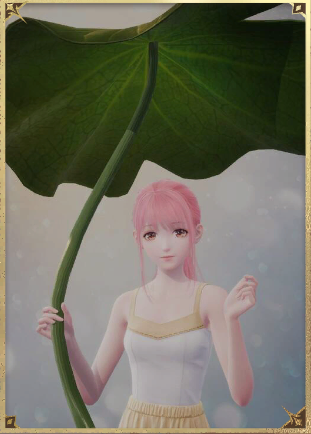
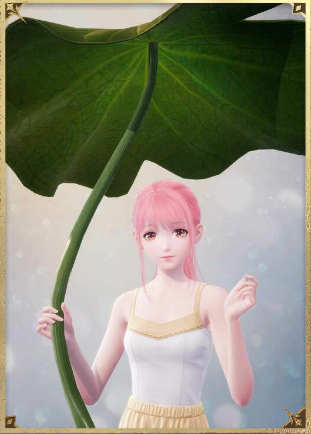
brightened umbrella images + stats for timeless echo

diff --git a/python/glow_up_scraper.py b/python/glow_up_scraper.py
@@ -45,7 +45,7 @@ def check_incr(file_path):
 				if current_level > prev_level:
 					decreasing_columns = [
 						col for col in ['Elegant', 'Fresh', 'Sweet', 'Sexy', 'Cool']
-						if int(row[col]) <= int(prev_row[col])
+						if int(row[col]) <= int(prev_row[col]) and int(prev_row[col]) <= int(row[col]) * 1.12
 					]
 					if decreasing_columns:
 						decreasing_columns_str = ", ".join(decreasing_columns)
@@ -89,17 +89,30 @@ def scrape_all():
 		pg.scroll(-1725)
 		time.sleep(1)
 
-def scrape_one(x, y, last=False):
-	pg.moveTo(x_cards[x], y_cards[2 if y > 2 else y])
-	if y > 2:
-		while (y-2 > 0):
-			pg.scroll(-1725)
-			y -= 1
-	elif y == 2:
-		pg.scroll(-850)
-	time.sleep(1)
-	pg.leftClick()
-	get_item_details(x, y, last)
+def scrape_one_lvl(name, rarity, slot, zero=False):
+	r = []
+	ss = [slot, '']
+	file = slot.lower()
+	r.append(name)
+	r.append(rarity)
+	r.extend(ss)
+	
+	if zero:
+		r.append(0)
+		r.extend(get_stats(initial_stat))
+		r.extend([0] * 3)
+		r.extend([''] * 2)
+	else:
+		r.append(get_lvl())
+		r.extend(get_stats(new_stat))
+		r.extend([0] * 3)
+		r.extend([''] * 2)
+	print(r)
+	f = f'./python/csv/unprocessed/{file}.csv'
+	with open(f, 'a', newline='') as csvfile:
+		csvwriter = csv.writer(csvfile)
+		csvwriter.writerow(r)
+	r.clear()
 
 def scrape_stats(name, rarity, slot):
 	r = []
@@ -154,18 +167,23 @@ def scrape_stats(name, rarity, slot):
 		csvwriter = csv.writer(csvfile)
 		csvwriter.writerows(rows)
 
+# vid = gw.getWindowsWithTitle('')[0]
+# vid.activate()
+# time.sleep(1)
+# scrape_one_lvl("Old Tale", 4, 'Handheld')
+# pg.moveTo(100, 100)
+
+
 # in_w.activate()
 # time.sleep(2)
-# scrape_stats("Timeless Step", 3, 'Shoes')
+# scrape_stats("Lotus Umbrella", 4, 'Handheld')
 
 
 time.sleep(2)
 file_list = os.listdir('D:/Documents/infinity_nikki_library/python/csv/unprocessed/')
 for file in file_list:
 	print(file)
-	#check_zeros(f'./python/csv/unprocessed/{file}')
 	check_incr(f'./python/csv/unprocessed/{file}')
-# 	spell_check_names(f'./python/csv/unprocessed/{file}')
 
 # scrape_all()
 # f = './python/csv/unprocessed/handheld.csv'

diff --git a/python/add_info_to_csv.py b/python/add_info_to_csv.py
@@ -72,9 +72,14 @@ def add_glow_up():
         for row in reader:
             item_name = row['Name']
             item_level = int(row['Level'])
-
+            
             if item_level == 10 and item_name in glow_up_data:
                 updated_row = row.copy()
+                for key in ['Elegant', 'Fresh', 'Sweet', 'Sexy', 'Cool']:
+                    glow_value = glow_up_data[item_name][key]
+                    updated_value = updated_row[key]
+                    if not (float(updated_value) < float(glow_value) < 1.12 * float(updated_value)):
+                        print(f"Validation failed for {item_name} {key}: {updated_value} vs {glow_value}")
                 updated_row['Level'] = '11'
                 updated_row['Elegant'] = glow_up_data[item_name]['Elegant']
                 updated_row['Fresh'] = glow_up_data[item_name]['Fresh']

diff --git a/python/scraper_helper.py b/python/scraper_helper.py
@@ -10,7 +10,7 @@ import re
 pytesseract.pytesseract.tesseract_cmd = r'C:/Program Files/Tesseract-OCR/tesseract'
 pg.FAILSAFE = True
 pg.PAUSE = 0.5
-in_w = gw.getWindowsWithTitle('Infinity Nikki')[0]
+#in_w = gw.getWindowsWithTitle('Infinity Nikki')[0]
 
 back = [76, 59]
 upgrade = [1555, 551]

diff --git a/python/compendium_scraper.py b/python/compendium_scraper.py
@@ -279,7 +279,7 @@ def scrape_new_item(r):
 in_w.activate() 
 time.sleep(2)
 pg.moveTo(90, 395)
-scrape_imgs()
+sc(f'../../../public/images/items/Lotus Umbrella', img_box)
 pg.moveTo(10, 10)
 
 
